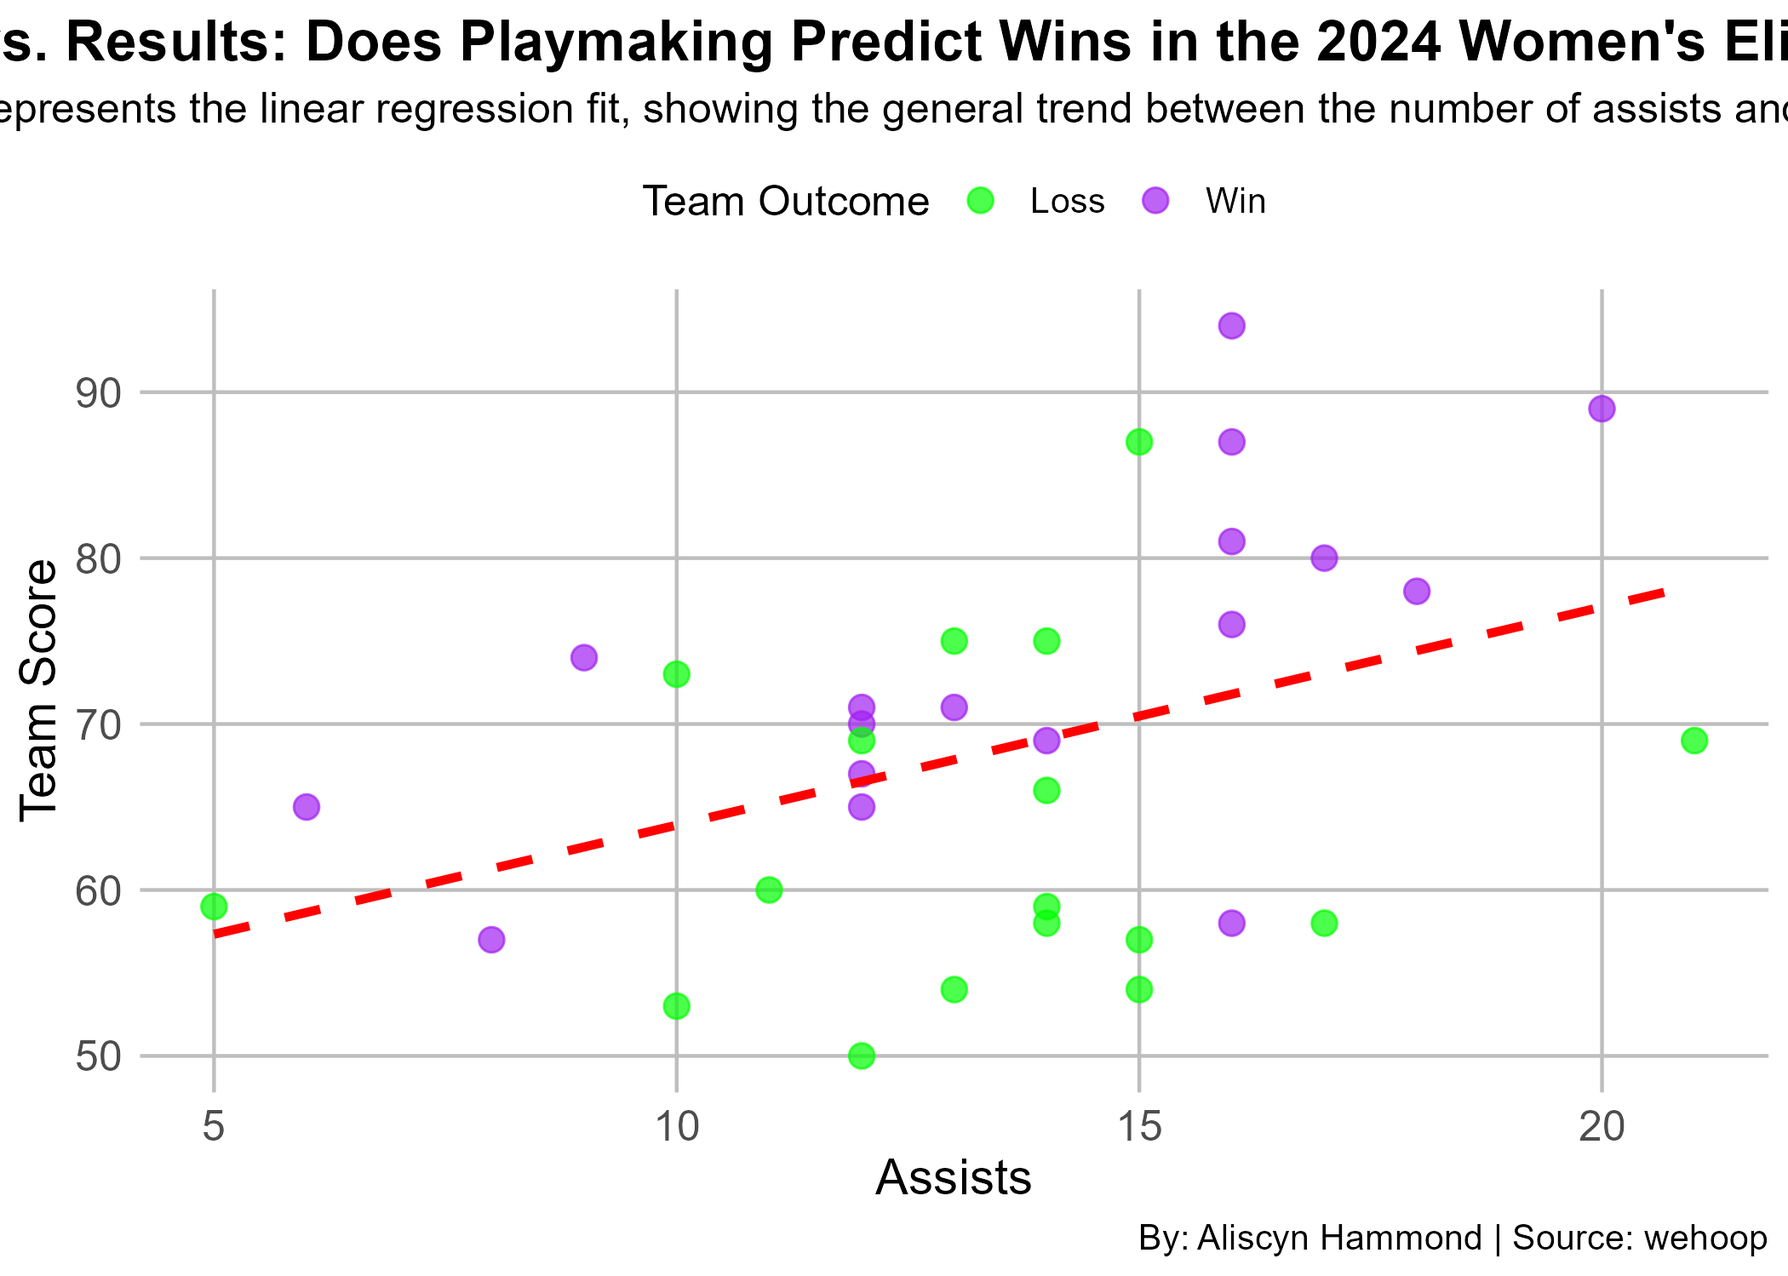
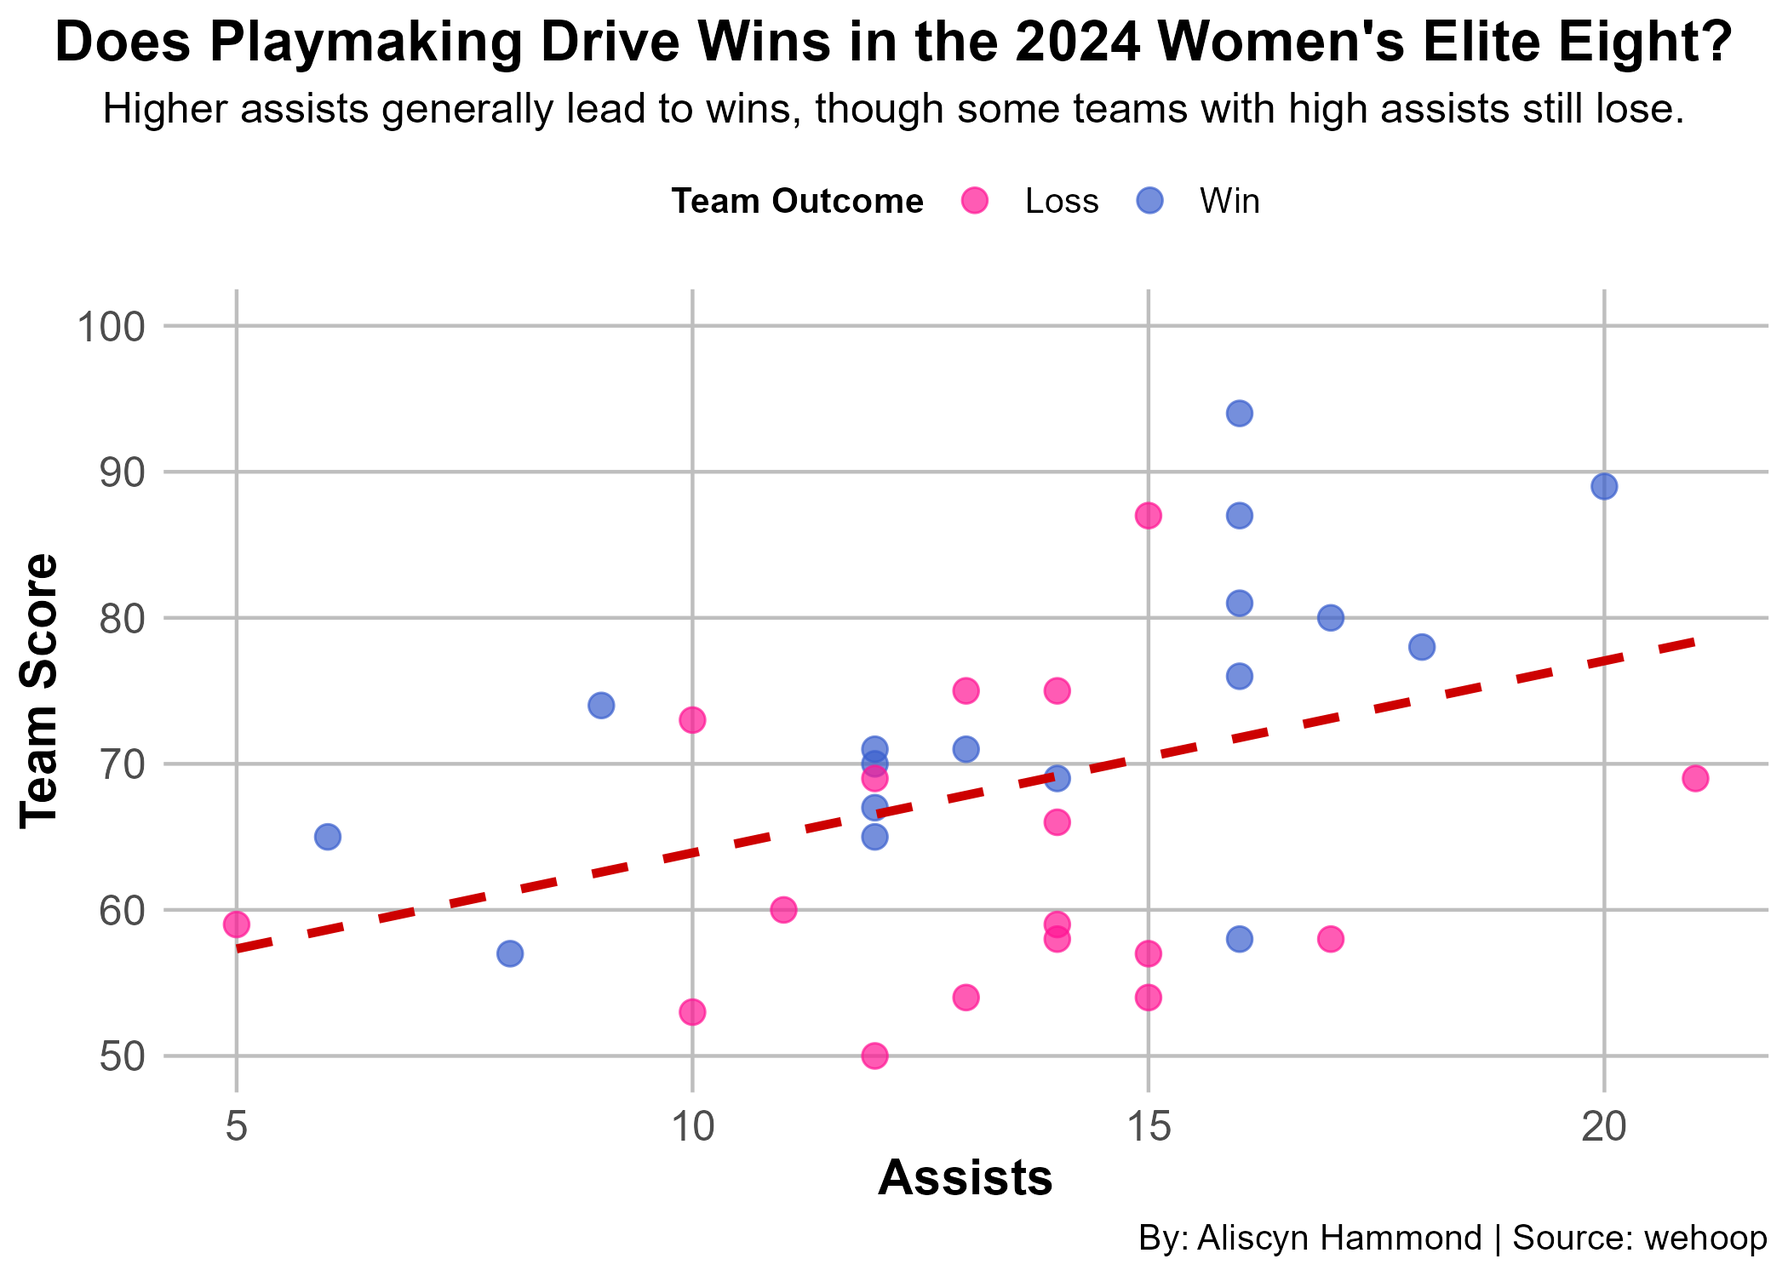
changed plot title and colors on plot

diff --git a/posts/elite-eight-women-basketball/index.html b/posts/elite-eight-women-basketball/index.html
@@ -207,37 +207,40 @@ pre > code.sourceCode > span > a:first-child::before { text-decoration: underlin
 <span id="cb1-2"><a href="#cb1-2" aria-hidden="true" tabindex="-1"></a><span class="fu">library</span>(ggplot2)</span>
 <span id="cb1-3"><a href="#cb1-3" aria-hidden="true" tabindex="-1"></a>elite <span class="ot">&lt;-</span> <span class="fu">read.csv</span>(<span class="st">"dataproject/2024_elite_eight_wbb.csv"</span>)</span>
 <span id="cb1-4"><a href="#cb1-4" aria-hidden="true" tabindex="-1"></a></span>
-<span id="cb1-5"><a href="#cb1-5" aria-hidden="true" tabindex="-1"></a>eliteclean <span class="ot">&lt;-</span> elite[,<span class="fu">c</span>(<span class="st">"game_id"</span>,<span class="st">"team_name"</span>,<span class="st">"team_score"</span>,<span class="st">"assists"</span>,<span class="st">"team_winner"</span>)]</span>
-<span id="cb1-6"><a href="#cb1-6" aria-hidden="true" tabindex="-1"></a></span>
+<span id="cb1-5"><a href="#cb1-5" aria-hidden="true" tabindex="-1"></a></span>
+<span id="cb1-6"><a href="#cb1-6" aria-hidden="true" tabindex="-1"></a>eliteclean <span class="ot">&lt;-</span> elite[,<span class="fu">c</span>(<span class="st">"game_id"</span>,<span class="st">"team_name"</span>,<span class="st">"team_score"</span>,<span class="st">"assists"</span>,<span class="st">"team_winner"</span>)]</span>
 <span id="cb1-7"><a href="#cb1-7" aria-hidden="true" tabindex="-1"></a></span>
-<span id="cb1-8"><a href="#cb1-8" aria-hidden="true" tabindex="-1"></a><span class="fu">ggplot</span>(eliteclean, <span class="fu">aes</span>(<span class="at">x =</span> assists, <span class="at">y =</span> team_score, <span class="at">color =</span> team_winner)) <span class="sc">+</span></span>
-<span id="cb1-9"><a href="#cb1-9" aria-hidden="true" tabindex="-1"></a>  <span class="fu">geom_point</span>(<span class="at">alpha =</span> <span class="fl">0.7</span>, <span class="at">size =</span> <span class="dv">3</span>) <span class="sc">+</span></span>
-<span id="cb1-10"><a href="#cb1-10" aria-hidden="true" tabindex="-1"></a>  <span class="fu">geom_smooth</span>(<span class="at">method =</span> <span class="st">'lm'</span>, <span class="at">color =</span> <span class="st">'red'</span>, <span class="at">linetype =</span> <span class="st">"dashed"</span>,<span class="at">se=</span><span class="cn">FALSE</span>, <span class="at">size =</span> <span class="fl">1.2</span>) <span class="sc">+</span> </span>
-<span id="cb1-11"><a href="#cb1-11" aria-hidden="true" tabindex="-1"></a>  <span class="fu">scale_color_manual</span>(<span class="at">values =</span> <span class="fu">c</span>(<span class="st">"TRUE"</span> <span class="ot">=</span> <span class="st">"purple"</span>, <span class="st">"FALSE"</span> <span class="ot">=</span> <span class="st">"green"</span>),</span>
-<span id="cb1-12"><a href="#cb1-12" aria-hidden="true" tabindex="-1"></a>  <span class="at">labels=</span><span class="fu">c</span>(<span class="st">"TRUE"</span><span class="ot">=</span><span class="st">"Win"</span>,<span class="st">"FALSE"</span><span class="ot">=</span><span class="st">"Loss"</span>)</span>
-<span id="cb1-13"><a href="#cb1-13" aria-hidden="true" tabindex="-1"></a>  ) <span class="sc">+</span></span>
-<span id="cb1-14"><a href="#cb1-14" aria-hidden="true" tabindex="-1"></a>  <span class="fu">labs</span>(</span>
-<span id="cb1-15"><a href="#cb1-15" aria-hidden="true" tabindex="-1"></a>    <span class="at">title =</span> <span class="st">"Assists vs. Results: Does Playmaking Predict Wins in the 2024 Women's Elite Eight?"</span>,</span>
-<span id="cb1-16"><a href="#cb1-16" aria-hidden="true" tabindex="-1"></a>    <span class="at">subtitle =</span> <span class="st">"The &lt;span style='color:red;'&gt;red&lt;/span&gt; dashed line represents the linear regression fit, showing the general trend between the number of assists and the final team score."</span>,</span>
-<span id="cb1-17"><a href="#cb1-17" aria-hidden="true" tabindex="-1"></a>    <span class="at">x =</span> <span class="st">"Assists"</span>,</span>
-<span id="cb1-18"><a href="#cb1-18" aria-hidden="true" tabindex="-1"></a>    <span class="at">y =</span> <span class="st">"Team Score"</span>,</span>
-<span id="cb1-19"><a href="#cb1-19" aria-hidden="true" tabindex="-1"></a>    <span class="at">caption =</span> <span class="st">"By: Aliscyn Hammond | Source: wehoop"</span>,</span>
-<span id="cb1-20"><a href="#cb1-20" aria-hidden="true" tabindex="-1"></a>    <span class="at">color =</span> <span class="st">"Team Outcome"</span></span>
-<span id="cb1-21"><a href="#cb1-21" aria-hidden="true" tabindex="-1"></a>  ) <span class="sc">+</span></span>
-<span id="cb1-22"><a href="#cb1-22" aria-hidden="true" tabindex="-1"></a>  <span class="fu">theme_minimal</span>() <span class="sc">+</span></span>
-<span id="cb1-23"><a href="#cb1-23" aria-hidden="true" tabindex="-1"></a>  <span class="fu">theme</span>(</span>
-<span id="cb1-24"><a href="#cb1-24" aria-hidden="true" tabindex="-1"></a>    <span class="at">plot.title =</span> <span class="fu">element_text</span>(<span class="at">hjust =</span> <span class="fl">0.5</span>, <span class="at">size =</span> <span class="dv">16</span>, <span class="at">face =</span> <span class="st">"bold"</span>),</span>
-<span id="cb1-25"><a href="#cb1-25" aria-hidden="true" tabindex="-1"></a>    <span class="at">plot.subtitle =</span> ggtext<span class="sc">::</span><span class="fu">element_markdown</span>(<span class="at">size =</span> <span class="dv">12</span>, <span class="at">lineheight =</span> <span class="fl">1.2</span>, <span class="at">hjust =</span> <span class="fl">0.5</span>),</span>
-<span id="cb1-26"><a href="#cb1-26" aria-hidden="true" tabindex="-1"></a>    <span class="at">axis.title =</span> <span class="fu">element_text</span>(<span class="at">size =</span> <span class="dv">14</span>),</span>
-<span id="cb1-27"><a href="#cb1-27" aria-hidden="true" tabindex="-1"></a>    <span class="at">axis.text =</span> <span class="fu">element_text</span>(<span class="at">size =</span> <span class="dv">12</span>),</span>
-<span id="cb1-28"><a href="#cb1-28" aria-hidden="true" tabindex="-1"></a>    <span class="at">plot.caption =</span> <span class="fu">element_text</span>(<span class="at">size =</span> <span class="dv">10</span>, <span class="at">hjust =</span> <span class="dv">1</span>),</span>
-<span id="cb1-29"><a href="#cb1-29" aria-hidden="true" tabindex="-1"></a>    <span class="at">legend.position =</span> <span class="st">"top"</span>,  <span class="co"># Move legend to top</span></span>
-<span id="cb1-30"><a href="#cb1-30" aria-hidden="true" tabindex="-1"></a>    <span class="at">legend.title =</span> <span class="fu">element_text</span>(<span class="at">size =</span> <span class="dv">12</span>),</span>
-<span id="cb1-31"><a href="#cb1-31" aria-hidden="true" tabindex="-1"></a>    <span class="at">legend.text =</span> <span class="fu">element_text</span>(<span class="at">size =</span> <span class="dv">10</span>)</span>
-<span id="cb1-32"><a href="#cb1-32" aria-hidden="true" tabindex="-1"></a>  ) <span class="sc">+</span></span>
-<span id="cb1-33"><a href="#cb1-33" aria-hidden="true" tabindex="-1"></a>  <span class="fu">theme</span>(<span class="at">panel.grid.major =</span> <span class="fu">element_line</span>(<span class="at">color =</span> <span class="st">"gray"</span>, <span class="at">size =</span> <span class="fl">0.5</span>),</span>
-<span id="cb1-34"><a href="#cb1-34" aria-hidden="true" tabindex="-1"></a>        <span class="at">panel.grid.minor =</span> <span class="fu">element_blank</span>(),</span>
-<span id="cb1-35"><a href="#cb1-35" aria-hidden="true" tabindex="-1"></a>          <span class="at">plot.title.position =</span> <span class="st">"plot"</span>)</span></code><button title="Copy to Clipboard" class="code-copy-button"><i class="bi"></i></button></pre></div>
+<span id="cb1-8"><a href="#cb1-8" aria-hidden="true" tabindex="-1"></a></span>
+<span id="cb1-9"><a href="#cb1-9" aria-hidden="true" tabindex="-1"></a><span class="fu">ggplot</span>(eliteclean, <span class="fu">aes</span>(<span class="at">x =</span> assists, <span class="at">y =</span> team_score, <span class="at">color =</span> team_winner)) <span class="sc">+</span></span>
+<span id="cb1-10"><a href="#cb1-10" aria-hidden="true" tabindex="-1"></a>  <span class="fu">geom_point</span>(<span class="at">alpha =</span> <span class="fl">0.7</span>, <span class="at">size =</span> <span class="dv">3</span>) <span class="sc">+</span></span>
+<span id="cb1-11"><a href="#cb1-11" aria-hidden="true" tabindex="-1"></a>  <span class="fu">geom_smooth</span>(<span class="at">method =</span> <span class="st">'lm'</span>, <span class="at">color =</span> <span class="st">'red3'</span>, <span class="at">linetype =</span> <span class="st">"dashed"</span>,<span class="at">se=</span><span class="cn">FALSE</span>, <span class="at">size =</span> <span class="fl">1.2</span>) <span class="sc">+</span> </span>
+<span id="cb1-12"><a href="#cb1-12" aria-hidden="true" tabindex="-1"></a>  <span class="fu">scale_color_manual</span>(<span class="at">values =</span> <span class="fu">c</span>(<span class="st">"TRUE"</span> <span class="ot">=</span> <span class="st">"royalblue3"</span>, <span class="st">"FALSE"</span> <span class="ot">=</span> <span class="st">"deeppink"</span>),</span>
+<span id="cb1-13"><a href="#cb1-13" aria-hidden="true" tabindex="-1"></a>  <span class="at">labels=</span><span class="fu">c</span>(<span class="st">"TRUE"</span><span class="ot">=</span><span class="st">"Win"</span>,<span class="st">"FALSE"</span><span class="ot">=</span><span class="st">"Loss"</span>)</span>
+<span id="cb1-14"><a href="#cb1-14" aria-hidden="true" tabindex="-1"></a>  ) <span class="sc">+</span></span>
+<span id="cb1-15"><a href="#cb1-15" aria-hidden="true" tabindex="-1"></a>  <span class="fu">labs</span>(</span>
+<span id="cb1-16"><a href="#cb1-16" aria-hidden="true" tabindex="-1"></a>    <span class="at">title =</span> <span class="st">"Does Playmaking Drive Wins in the 2024 Women's Elite Eight?"</span>,</span>
+<span id="cb1-17"><a href="#cb1-17" aria-hidden="true" tabindex="-1"></a>    <span class="at">subtitle =</span> <span class="st">"Higher assists generally lead to wins, though some teams with high assists still lose."</span>,</span>
+<span id="cb1-18"><a href="#cb1-18" aria-hidden="true" tabindex="-1"></a>    <span class="at">x =</span> <span class="st">"Assists"</span>,</span>
+<span id="cb1-19"><a href="#cb1-19" aria-hidden="true" tabindex="-1"></a>    <span class="at">y =</span> <span class="st">"Team Score"</span>,</span>
+<span id="cb1-20"><a href="#cb1-20" aria-hidden="true" tabindex="-1"></a>    <span class="at">caption =</span> <span class="st">"By: Aliscyn Hammond | Source: wehoop"</span>,</span>
+<span id="cb1-21"><a href="#cb1-21" aria-hidden="true" tabindex="-1"></a>    <span class="at">color =</span> <span class="st">"Team Outcome"</span></span>
+<span id="cb1-22"><a href="#cb1-22" aria-hidden="true" tabindex="-1"></a>  ) <span class="sc">+</span></span>
+<span id="cb1-23"><a href="#cb1-23" aria-hidden="true" tabindex="-1"></a>  <span class="fu">theme_minimal</span>() <span class="sc">+</span></span>
+<span id="cb1-24"><a href="#cb1-24" aria-hidden="true" tabindex="-1"></a>  <span class="fu">theme</span>(</span>
+<span id="cb1-25"><a href="#cb1-25" aria-hidden="true" tabindex="-1"></a>    <span class="at">plot.title =</span> <span class="fu">element_text</span>(<span class="at">hjust =</span> <span class="fl">0.5</span>, <span class="at">size =</span> <span class="dv">16</span>, <span class="at">face =</span> <span class="st">"bold"</span>),</span>
+<span id="cb1-26"><a href="#cb1-26" aria-hidden="true" tabindex="-1"></a>    <span class="at">plot.subtitle =</span> ggtext<span class="sc">::</span><span class="fu">element_markdown</span>(<span class="at">size =</span> <span class="dv">12</span>, <span class="at">lineheight =</span> <span class="fl">1.2</span>, <span class="at">hjust =</span> <span class="fl">0.5</span>),</span>
+<span id="cb1-27"><a href="#cb1-27" aria-hidden="true" tabindex="-1"></a>    <span class="at">axis.title =</span> <span class="fu">element_text</span>(<span class="at">size =</span> <span class="dv">14</span>,<span class="at">face=</span><span class="st">"bold"</span>),</span>
+<span id="cb1-28"><a href="#cb1-28" aria-hidden="true" tabindex="-1"></a>    <span class="at">axis.text =</span> <span class="fu">element_text</span>(<span class="at">size =</span> <span class="dv">12</span>),</span>
+<span id="cb1-29"><a href="#cb1-29" aria-hidden="true" tabindex="-1"></a>    <span class="at">plot.caption =</span> <span class="fu">element_text</span>(<span class="at">size =</span> <span class="dv">10</span>, <span class="at">hjust =</span> <span class="dv">1</span>),</span>
+<span id="cb1-30"><a href="#cb1-30" aria-hidden="true" tabindex="-1"></a>    <span class="at">legend.position =</span> <span class="st">"top"</span>,  </span>
+<span id="cb1-31"><a href="#cb1-31" aria-hidden="true" tabindex="-1"></a>    <span class="at">legend.title =</span> <span class="fu">element_text</span>(<span class="at">size =</span> <span class="dv">10</span>,<span class="at">face=</span><span class="st">"bold"</span>),</span>
+<span id="cb1-32"><a href="#cb1-32" aria-hidden="true" tabindex="-1"></a>    <span class="at">legend.text =</span> <span class="fu">element_text</span>(<span class="at">size =</span> <span class="dv">10</span>)</span>
+<span id="cb1-33"><a href="#cb1-33" aria-hidden="true" tabindex="-1"></a>  ) <span class="sc">+</span></span>
+<span id="cb1-34"><a href="#cb1-34" aria-hidden="true" tabindex="-1"></a>  <span class="fu">theme</span>(<span class="at">panel.grid.major =</span> <span class="fu">element_line</span>(<span class="at">color =</span> <span class="st">"gray"</span>, <span class="at">size =</span> <span class="fl">0.5</span>),</span>
+<span id="cb1-35"><a href="#cb1-35" aria-hidden="true" tabindex="-1"></a>        <span class="at">panel.grid.minor =</span> <span class="fu">element_blank</span>(),</span>
+<span id="cb1-36"><a href="#cb1-36" aria-hidden="true" tabindex="-1"></a>          <span class="at">plot.title.position =</span> <span class="st">"plot"</span>)<span class="sc">+</span></span>
+<span id="cb1-37"><a href="#cb1-37" aria-hidden="true" tabindex="-1"></a>  <span class="fu">scale_y_continuous</span>(<span class="at">limits=</span><span class="fu">c</span>(<span class="dv">50</span>,<span class="dv">100</span>))<span class="sc">+</span></span>
+<span id="cb1-38"><a href="#cb1-38" aria-hidden="true" tabindex="-1"></a>   <span class="fu">scale_x_continuous</span>(<span class="at">limits =</span> <span class="fu">c</span>(<span class="fu">min</span>(eliteclean<span class="sc">$</span>assists), <span class="fu">max</span>(eliteclean<span class="sc">$</span>assists)))</span></code><button title="Copy to Clipboard" class="code-copy-button"><i class="bi"></i></button></pre></div>
 </details>
 <div class="cell-output-display">
 <div>
@@ -273,19 +276,19 @@ pre > code.sourceCode > span > a:first-child::before { text-decoration: underlin
 <span id="cb2-16"><a href="#cb2-16" aria-hidden="true" tabindex="-1"></a>  <span class="fu">geom_bar</span>(<span class="at">stat =</span> <span class="st">"identity"</span>, <span class="at">position =</span> <span class="st">"dodge"</span>) <span class="sc">+</span></span>
 <span id="cb2-17"><a href="#cb2-17" aria-hidden="true" tabindex="-1"></a>  <span class="fu">geom_hline</span>(<span class="at">data =</span> avg_assists, <span class="fu">aes</span>(<span class="at">yintercept =</span> avg_assists, <span class="at">color =</span> <span class="fu">factor</span>(team_winner)), <span class="at">linetype =</span> <span class="st">"dashed"</span>, <span class="at">size =</span> <span class="dv">1</span>, <span class="at">color =</span> <span class="st">"black"</span>) <span class="sc">+</span>  </span>
 <span id="cb2-18"><a href="#cb2-18" aria-hidden="true" tabindex="-1"></a>  <span class="fu">labs</span>(</span>
-<span id="cb2-19"><a href="#cb2-19" aria-hidden="true" tabindex="-1"></a>    <span class="at">title =</span> <span class="st">"Assists vs. Outcomes: Elite Eight Playmaking Breakdown"</span>,</span>
-<span id="cb2-20"><a href="#cb2-20" aria-hidden="true" tabindex="-1"></a>    <span class="at">subtitle =</span> <span class="fu">paste</span>(<span class="st">"Black dashed lines show average assists among Winning and Losing Teams."</span>),</span>
+<span id="cb2-19"><a href="#cb2-19" aria-hidden="true" tabindex="-1"></a>    <span class="at">title =</span> <span class="st">"Teamwork Couldn't Carry Them All"</span>,</span>
+<span id="cb2-20"><a href="#cb2-20" aria-hidden="true" tabindex="-1"></a>    <span class="at">subtitle =</span> <span class="st">"Some of Elite Eight Teams Fall Short Despite Strong Assists"</span>,</span>
 <span id="cb2-21"><a href="#cb2-21" aria-hidden="true" tabindex="-1"></a>    <span class="at">x =</span> <span class="st">"Team"</span>,</span>
 <span id="cb2-22"><a href="#cb2-22" aria-hidden="true" tabindex="-1"></a>    <span class="at">y =</span> <span class="st">"Assists"</span>,</span>
 <span id="cb2-23"><a href="#cb2-23" aria-hidden="true" tabindex="-1"></a>    <span class="at">caption =</span> <span class="st">"By: Aliscyn Hammond | Source: wehoop"</span></span>
 <span id="cb2-24"><a href="#cb2-24" aria-hidden="true" tabindex="-1"></a>  ) <span class="sc">+</span></span>
 <span id="cb2-25"><a href="#cb2-25" aria-hidden="true" tabindex="-1"></a>  <span class="fu">theme_minimal</span>() <span class="sc">+</span></span>
 <span id="cb2-26"><a href="#cb2-26" aria-hidden="true" tabindex="-1"></a>  <span class="fu">scale_fill_manual</span>(</span>
-<span id="cb2-27"><a href="#cb2-27" aria-hidden="true" tabindex="-1"></a>    <span class="at">values =</span> <span class="fu">c</span>(<span class="st">"blue"</span>, <span class="st">"red"</span>), </span>
+<span id="cb2-27"><a href="#cb2-27" aria-hidden="true" tabindex="-1"></a>    <span class="at">values =</span> <span class="fu">c</span>(<span class="st">"royalblue3"</span>, <span class="st">"deeppink"</span>), </span>
 <span id="cb2-28"><a href="#cb2-28" aria-hidden="true" tabindex="-1"></a>    <span class="at">labels =</span> <span class="fu">c</span>(<span class="st">"Winning"</span>, <span class="st">"Losing"</span>)  </span>
 <span id="cb2-29"><a href="#cb2-29" aria-hidden="true" tabindex="-1"></a>  ) <span class="sc">+</span></span>
 <span id="cb2-30"><a href="#cb2-30" aria-hidden="true" tabindex="-1"></a>  <span class="fu">scale_color_manual</span>(</span>
-<span id="cb2-31"><a href="#cb2-31" aria-hidden="true" tabindex="-1"></a>    <span class="at">values =</span> <span class="fu">c</span>(<span class="st">"blue"</span>, <span class="st">"red"</span>) </span>
+<span id="cb2-31"><a href="#cb2-31" aria-hidden="true" tabindex="-1"></a>    <span class="at">values =</span> <span class="fu">c</span>(<span class="st">"royalblue3"</span>, <span class="st">"deeppink"</span>) </span>
 <span id="cb2-32"><a href="#cb2-32" aria-hidden="true" tabindex="-1"></a>  ) <span class="sc">+</span>  </span>
 <span id="cb2-33"><a href="#cb2-33" aria-hidden="true" tabindex="-1"></a>  <span class="fu">theme</span>(</span>
 <span id="cb2-34"><a href="#cb2-34" aria-hidden="true" tabindex="-1"></a>    <span class="at">plot.title =</span> <span class="fu">element_text</span>(<span class="at">size =</span> <span class="dv">16</span>, <span class="at">face =</span> <span class="st">"bold"</span>),</span>

diff --git a/index.html b/index.html
@@ -210,7 +210,7 @@ window.Quarto = {
 
 <div class="quarto-listing quarto-listing-container-default" id="listing-listing">
 <div class="list quarto-listing-default">
-<div class="quarto-post image-right" data-index="0" data-categories="YmFza2V0YmFsbCx3b21lbiBzcG9ydHMsZWxpdGUgZWlnaHQ=" data-listing-date-sort="1731304800000" data-listing-file-modified-sort="1731797626550" data-listing-date-modified-sort="NaN" data-listing-reading-time-sort="8" data-listing-word-count-sort="1478">
+<div class="quarto-post image-right" data-index="0" data-categories="YmFza2V0YmFsbCx3b21lbiBzcG9ydHMsZWxpdGUgZWlnaHQ=" data-listing-date-sort="1731304800000" data-listing-file-modified-sort="1731801786719" data-listing-date-modified-sort="NaN" data-listing-reading-time-sort="8" data-listing-word-count-sort="1468">
 <div class="thumbnail">
 <p><a href="./posts/elite-eight-women-basketball/index.html" class="no-external"></a></p><a href="./posts/elite-eight-women-basketball/index.html" class="no-external">
 <p><img loading="lazy" src="./posts/elite-eight-women-basketball/image.png" class="thumbnail-image"></p>
